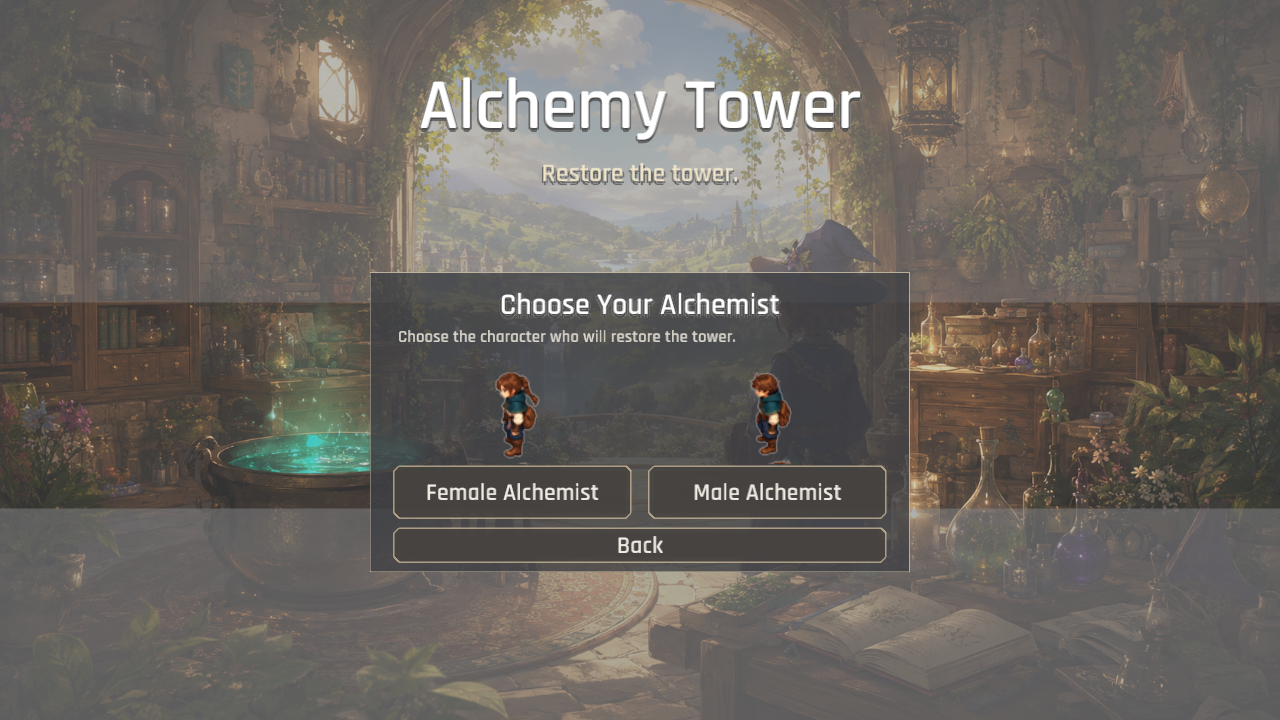
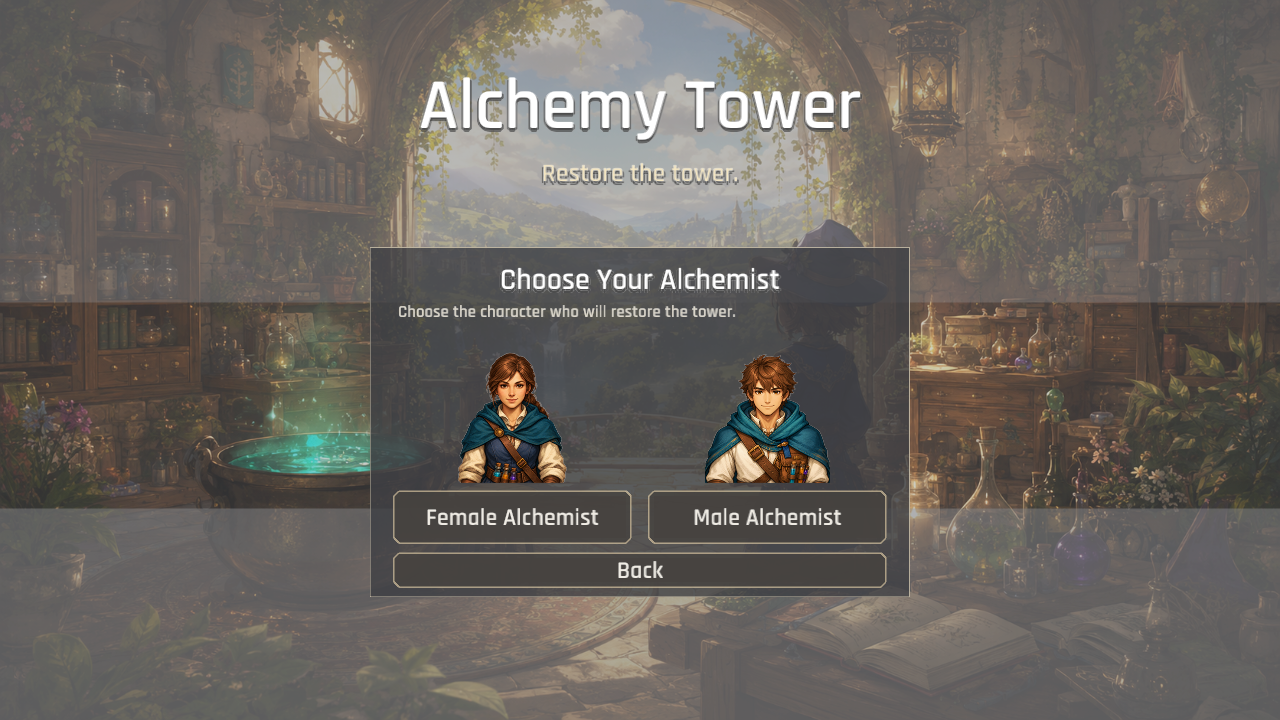
The alchemists meet the player eye to eye (forward-facing character-selection portraits)
The chooser used enlarged movement-sheet frames, which still read as tiny top-down game pieces instead of introductions to the two playable characters.

Add matching transparent 256x256 male and female bust portraits, register them in the production manifest, and draw them face-forward above their touch targets. Expand the chooser panel while preserving the existing labels, back action, and responsive bounds.

The gender capture was replaced after visual review. cargo test passed 221 unit tests and the source-size standard; publish.ps1 completed Windows and WebGL builds, packaged 319 art files, and deployed the preview.

Changed region(s): [[0.2812, 0.3361, 0.7188, 0.8556]]

diff --git a/src/art/asset_manifest.rs b/src/art/asset_manifest.rs
@@ -2,8 +2,9 @@ use std::collections::HashMap;
 
 use super::asset_keys::{
     asset_key, BACKGROUND_CATEGORY, CHARACTER_CATEGORY, EFFECT_CATEGORY, FEMALE_PLAYER_ID,
-    ITEM_ICON_CATEGORY, JOURNAL_TAB_CATEGORY, PLAYER_ID, STATION_CATEGORY, TITLE_SCREEN_CATEGORY,
-    TOAST_ICON_CATEGORY, WORLD_NODE_CATEGORY,
+    FEMALE_PLAYER_PORTRAIT_ID, ITEM_ICON_CATEGORY, JOURNAL_TAB_CATEGORY, PLAYER_ID,
+    PLAYER_PORTRAIT_ID, STATION_CATEGORY, TITLE_SCREEN_CATEGORY, TOAST_ICON_CATEGORY,
+    WORLD_NODE_CATEGORY,
 };
 use super::ui_art_catalog::{ui_art_catalog, UiArtCatalog};
 use macroquad_toolkit::assets::{TextureConfig, TextureFilter};
@@ -48,7 +49,12 @@ fn add_area_backgrounds(configs: &mut Vec<TextureConfig>, data: &GameData) {
 }
 
 fn add_characters(configs: &mut Vec<TextureConfig>, data: &GameData) {
-    let mut character_ids = vec![PLAYER_ID.to_owned(), FEMALE_PLAYER_ID.to_owned()];
+    let mut character_ids = vec![
+        PLAYER_ID.to_owned(),
+        FEMALE_PLAYER_ID.to_owned(),
+        PLAYER_PORTRAIT_ID.to_owned(),
+        FEMALE_PLAYER_PORTRAIT_ID.to_owned(),
+    ];
     character_ids.extend(data.npcs.iter().map(|npc| npc.id.clone()));
     character_ids.sort();
     character_ids.dedup();

diff --git a/src/ui/menu_screen.rs b/src/ui/menu_screen.rs
@@ -1,6 +1,6 @@
 use super::menu_background::{draw_title_background, draw_title_vignette};
 use super::{draw_action_button, draw_wrapped_text, truncate_text_to_width};
-use crate::art::{draw_character_preview, ArtAssets};
+use crate::art::{draw_texture_centered, ArtAssets};
 use crate::data::GameData;
 use crate::data::PlayerGender;
 use crate::menu_layout::{
@@ -59,12 +59,16 @@ fn draw_gender_select(art: &ArtAssets, view: &MenuScreenView) {
         .enumerate()
     {
         let button = gender_choice_rect(index);
-        if let Some(texture) = art.player(*gender) {
-            draw_character_preview(
+        let portrait_size = ((rect.h - 176.0) * 0.75).clamp(82.0, 132.0);
+        if let Some(texture) = art.player_portrait(*gender) {
+            draw_texture_centered(
                 texture,
-                vec2(button.x + button.w * 0.5, button.y - 48.0),
-                vec2(-1.0, 0.0),
-                92.0,
+                vec2(
+                    button.x + button.w * 0.5,
+                    button.y - portrait_size * 0.5 - 8.0,
+                ),
+                vec2(portrait_size, portrait_size),
+                WHITE,
             );
         }
     }

diff --git a/src/art/assets.rs b/src/art/assets.rs
@@ -7,8 +7,9 @@ use crate::data::GameData;
 
 use super::asset_keys::{
     asset_key, ART_ASSET_PACK, BACKGROUND_CATEGORY, CHARACTER_CATEGORY, EFFECT_CATEGORY,
-    FEMALE_PLAYER_ID, ITEM_ICON_CATEGORY, JOURNAL_TAB_CATEGORY, PLAYER_ID, STATION_CATEGORY,
-    TITLE_SCREEN_CATEGORY, TOAST_ICON_CATEGORY, WORLD_NODE_CATEGORY,
+    FEMALE_PLAYER_ID, FEMALE_PLAYER_PORTRAIT_ID, ITEM_ICON_CATEGORY, JOURNAL_TAB_CATEGORY,
+    PLAYER_ID, PLAYER_PORTRAIT_ID, STATION_CATEGORY, TITLE_SCREEN_CATEGORY, TOAST_ICON_CATEGORY,
+    WORLD_NODE_CATEGORY,
 };
 use super::asset_manifest::build_texture_manifest;
 use crate::data::PlayerGender;
@@ -57,6 +58,13 @@ impl ArtAssets {
         self.character(match gender {
             PlayerGender::Female => FEMALE_PLAYER_ID,
             PlayerGender::Male => PLAYER_ID,
+        })
+    }
+
+    pub(crate) fn player_portrait(&self, gender: PlayerGender) -> Option<&Texture2D> {
+        self.character(match gender {
+            PlayerGender::Female => FEMALE_PLAYER_PORTRAIT_ID,
+            PlayerGender::Male => PLAYER_PORTRAIT_ID,
         })
     }
 

diff --git a/src/art/draw.rs b/src/art/draw.rs
@@ -50,21 +50,6 @@ pub(crate) fn draw_character_frame(
     moving: bool,
     alpha: f32,
 ) {
-    draw_character_at_size(texture, center, facing, moving, alpha, 64.0);
-}
-
-pub(crate) fn draw_character_preview(texture: &Texture2D, center: Vec2, facing: Vec2, size: f32) {
-    draw_character_at_size(texture, center, facing, false, 1.0, size);
-}
-
-fn draw_character_at_size(
-    texture: &Texture2D,
-    center: Vec2,
-    facing: Vec2,
-    moving: bool,
-    alpha: f32,
-    size: f32,
-) {
     let row = if facing.y > 0.5 {
         0.0
     } else if facing.x < -0.5 {
@@ -81,12 +66,12 @@ fn draw_character_at_size(
     };
     draw_texture_ex(
         texture,
-        center.x - size * 0.5,
-        center.y - size * 0.5,
+        center.x - 32.0,
+        center.y - 32.0,
         Color::new(1.0, 1.0, 1.0, alpha),
         DrawTextureParams {
             source: Some(Rect::new(column * 64.0, row * 64.0, 64.0, 64.0)),
-            dest_size: Some(vec2(size, size)),
+            dest_size: Some(vec2(64.0, 64.0)),
             ..Default::default()
         },
     );

diff --git a/src/art/asset_keys.rs b/src/art/asset_keys.rs
@@ -11,6 +11,8 @@ pub(super) const WORLD_NODE_CATEGORY: &str = "world_node";
 
 pub(super) const PLAYER_ID: &str = "player_tower_alchemist";
 pub(super) const FEMALE_PLAYER_ID: &str = "player_tower_alchemist_female";
+pub(super) const PLAYER_PORTRAIT_ID: &str = "player_tower_alchemist_portrait";
+pub(super) const FEMALE_PLAYER_PORTRAIT_ID: &str = "player_tower_alchemist_female_portrait";
 pub(super) fn asset_key(category: &str, id: &str) -> String {
     format!("{category}:{id}")
 }

diff --git a/src/art.rs b/src/art.rs
@@ -8,9 +8,7 @@ mod props;
 mod ui_art_catalog;
 
 pub(crate) use self::assets::ArtAssets;
-pub(crate) use self::draw::{
-    draw_character_frame, draw_character_preview, draw_texture_centered, draw_texture_cover,
-};
+pub(crate) use self::draw::{draw_character_frame, draw_texture_centered, draw_texture_cover};
 pub(crate) use self::draw_markers::{
     draw_gather_node_marker, draw_priority_marker, draw_station_marker,
 };

diff --git a/src/menu_layout.rs b/src/menu_layout.rs
@@ -56,7 +56,7 @@ pub(crate) fn settings_back_rect() -> Rect {
 
 pub(crate) fn gender_select_rect() -> Rect {
     let width = 540.0_f32.min(screen_width() - 40.0);
-    let height = 300.0_f32.min(screen_height() - 210.0);
+    let height = 350.0_f32.min(screen_height() - 210.0);
     Rect::new(
         screen_width() * 0.5 - width * 0.5,
         (screen_height() * 0.5 - height * 0.5 + 62.0).max(174.0),

diff --git a/docs/2d_asset_requirements.md b/docs/2d_asset_requirements.md
@@ -194,12 +194,14 @@ Required families include:
 
 ### Characters
 
-Eleven complete character sheets are required:
+Eleven complete character sheets and two player-selection portraits are required:
 
 | ID | Readable identity |
 | --- | --- |
 | `player_tower_alchemist` | Practical young male alchemist, travel cloak, ingredient satchel, visible belt vials |
 | `player_tower_alchemist_female` | Practical young female alchemist, braided hair, matching travel gear and animation pivots |
+| `player_tower_alchemist_portrait` | Forward-facing male alchemist selection portrait, matching the playable sheet |
+| `player_tower_alchemist_female_portrait` | Forward-facing female alchemist selection portrait, matching the playable sheet |
 | `crow_guide` | Pale-marked magical crow with a distinct silhouette at 64 px |
 | `mira_apothecary` | Confident shopkeeper, apron, warm salmon and honey palette |
 | `rowan_herbalist` | Field-worn herbalist, gathering tools, green travel layers |
